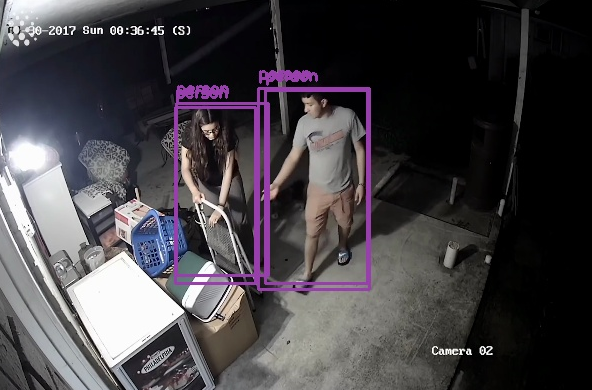
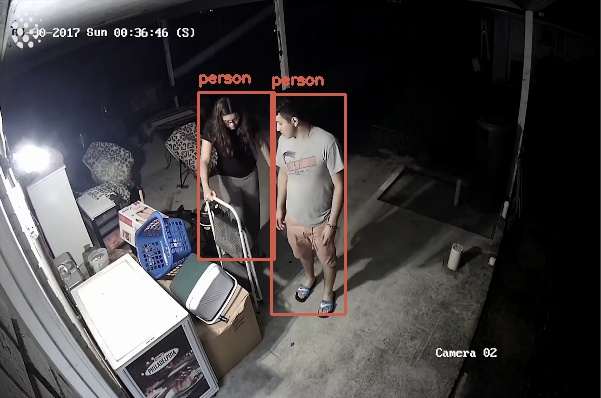
feat: lê stream de vídeo ao´invés de frames

diff --git a/deteccao_objeto_open_cv.html b/deteccao_objeto_open_cv.html
@@ -14256,10 +14256,10 @@ a.anchor-link {
     </script>
     <!-- End of mathjax configuration --></head>
 <body class="jp-Notebook" data-jp-theme-light="true" data-jp-theme-name="JupyterLab Light">
-<div class="jp-Cell jp-CodeCell jp-Notebook-cell jp-mod-noOutputs  ">
+<div class="jp-Cell jp-CodeCell jp-Notebook-cell   ">
 <div class="jp-Cell-inputWrapper">
 <div class="jp-InputArea jp-Cell-inputArea">
-<div class="jp-InputPrompt jp-InputArea-prompt">In&nbsp;[15]:</div>
+<div class="jp-InputPrompt jp-InputArea-prompt">In&nbsp;[1]:</div>
 <div class="jp-CodeMirrorEditor jp-Editor jp-InputArea-editor" data-type="inline">
      <div class="CodeMirror cm-s-jupyter">
 <div class=" highlight hl-ipython3"><pre><span></span><span class="kn">import</span> <span class="nn">cv2</span><span class="o">,</span> <span class="nn">numpy</span><span class="o">,</span> <span class="nn">os</span>
@@ -14272,17 +14272,42 @@ a.anchor-link {
 </div>
 </div>
 
+<div class="jp-Cell-outputWrapper">
+
+
+<div class="jp-OutputArea jp-Cell-outputArea">
+
+<div class="jp-OutputArea-child">
+
+    
+    <div class="jp-OutputPrompt jp-OutputArea-prompt"></div>
+
+
+<div class="jp-RenderedText jp-OutputArea-output" data-mime-type="text/plain">
+<pre>INFO:tensorflow:Enabling eager execution
+INFO:tensorflow:Enabling v2 tensorshape
+INFO:tensorflow:Enabling resource variables
+INFO:tensorflow:Enabling tensor equality
+INFO:tensorflow:Enabling control flow v2
+</pre>
+</div>
+</div>
+
+</div>
+
+</div>
+
 </div><div class="jp-Cell jp-CodeCell jp-Notebook-cell jp-mod-noOutputs  ">
 <div class="jp-Cell-inputWrapper">
 <div class="jp-InputArea jp-Cell-inputArea">
-<div class="jp-InputPrompt jp-InputArea-prompt">In&nbsp;[16]:</div>
+<div class="jp-InputPrompt jp-InputArea-prompt">In&nbsp;[2]:</div>
 <div class="jp-CodeMirrorEditor jp-Editor jp-InputArea-editor" data-type="inline">
      <div class="CodeMirror cm-s-jupyter">
-<div class=" highlight hl-ipython3"><pre><span></span><span class="c1">#pathFrames = r&#39;\assets\caxorrimFrames&#39;</span>
-<span class="c1">#pathFrames = r&#39;\assets\dogDriftFrames&#39;</span>
-<span class="n">pathFrames</span> <span class="o">=</span> <span class="sa">r</span><span class="s1">&#39;\assets\gatoPiscinaFrames&#39;</span>
-<span class="n">diretorioFrames</span> <span class="o">=</span> <span class="n">os</span><span class="o">.</span><span class="n">getcwd</span><span class="p">()</span> <span class="o">+</span> <span class="n">pathFrames</span>
-<span class="n">diretorioFramesFiltrados</span> <span class="o">=</span> <span class="n">os</span><span class="o">.</span><span class="n">getcwd</span><span class="p">()</span> <span class="o">+</span> <span class="sa">r</span><span class="s1">&#39;\assets\output&#39;</span>
+<div class=" highlight hl-ipython3"><pre><span></span><span class="c1">#pathVideo = r&#39;\assets\Caxorrim corajoso.mp4&#39;</span>
+<span class="n">pathVideo</span> <span class="o">=</span> <span class="sa">r</span><span class="s1">&#39;\assets\DogDrift.mp4&#39;</span>
+<span class="c1">#pathVideo = r&#39;\assets\Gato Piscina.mp4&#39;</span>
+<span class="n">diretorioVideo</span> <span class="o">=</span> <span class="n">os</span><span class="o">.</span><span class="n">getcwd</span><span class="p">()</span> <span class="o">+</span> <span class="n">pathVideo</span>
+<span class="n">diretorioVideoProcessado</span> <span class="o">=</span> <span class="n">os</span><span class="o">.</span><span class="n">getcwd</span><span class="p">()</span> <span class="o">+</span> <span class="sa">r</span><span class="s1">&#39;\assets\output&#39;</span>
 </pre></div>
 
      </div>
@@ -14293,7 +14318,7 @@ a.anchor-link {
 </div><div class="jp-Cell jp-CodeCell jp-Notebook-cell jp-mod-noOutputs  ">
 <div class="jp-Cell-inputWrapper">
 <div class="jp-InputArea jp-Cell-inputArea">
-<div class="jp-InputPrompt jp-InputArea-prompt">In&nbsp;[17]:</div>
+<div class="jp-InputPrompt jp-InputArea-prompt">In&nbsp;[3]:</div>
 <div class="jp-CodeMirrorEditor jp-Editor jp-InputArea-editor" data-type="inline">
      <div class="CodeMirror cm-s-jupyter">
 <div class=" highlight hl-ipython3"><pre><span></span><span class="n">foregroundModel</span> <span class="o">=</span> <span class="n">cv2</span><span class="o">.</span><span class="n">createBackgroundSubtractorMOG2</span><span class="p">()</span>
@@ -14317,7 +14342,7 @@ a.anchor-link {
 </div><div class="jp-Cell jp-CodeCell jp-Notebook-cell jp-mod-noOutputs  ">
 <div class="jp-Cell-inputWrapper">
 <div class="jp-InputArea jp-Cell-inputArea">
-<div class="jp-InputPrompt jp-InputArea-prompt">In&nbsp;[18]:</div>
+<div class="jp-InputPrompt jp-InputArea-prompt">In&nbsp;[4]:</div>
 <div class="jp-CodeMirrorEditor jp-Editor jp-InputArea-editor" data-type="inline">
      <div class="CodeMirror cm-s-jupyter">
 <div class=" highlight hl-ipython3"><pre><span></span><span class="k">def</span> <span class="nf">reduzir_ruidos</span><span class="p">(</span><span class="n">foregroundMask</span><span class="p">):</span>
@@ -14333,7 +14358,7 @@ a.anchor-link {
 </div><div class="jp-Cell jp-CodeCell jp-Notebook-cell jp-mod-noOutputs  ">
 <div class="jp-Cell-inputWrapper">
 <div class="jp-InputArea jp-Cell-inputArea">
-<div class="jp-InputPrompt jp-InputArea-prompt">In&nbsp;[19]:</div>
+<div class="jp-InputPrompt jp-InputArea-prompt">In&nbsp;[5]:</div>
 <div class="jp-CodeMirrorEditor jp-Editor jp-InputArea-editor" data-type="inline">
      <div class="CodeMirror cm-s-jupyter">
 <div class=" highlight hl-ipython3"><pre><span></span><span class="k">def</span> <span class="nf">frames_sao_consecutivos</span><span class="p">(</span><span class="n">arrayMovimentoDetectados</span><span class="p">):</span>
@@ -14348,7 +14373,7 @@ a.anchor-link {
 </div><div class="jp-Cell jp-CodeCell jp-Notebook-cell jp-mod-noOutputs  ">
 <div class="jp-Cell-inputWrapper">
 <div class="jp-InputArea jp-Cell-inputArea">
-<div class="jp-InputPrompt jp-InputArea-prompt">In&nbsp;[20]:</div>
+<div class="jp-InputPrompt jp-InputArea-prompt">In&nbsp;[6]:</div>
 <div class="jp-CodeMirrorEditor jp-Editor jp-InputArea-editor" data-type="inline">
      <div class="CodeMirror cm-s-jupyter">
 <div class=" highlight hl-ipython3"><pre><span></span><span class="k">def</span> <span class="nf">salvar_sequencia</span><span class="p">(</span><span class="n">arrayCapturaDeFrames</span><span class="p">,</span> <span class="n">idxFrameAtual</span><span class="p">,</span> <span class="n">minimaQuantidadeDeFrames</span><span class="p">,</span> <span class="n">diretorioFramesFiltrados</span><span class="p">):</span>
@@ -14374,7 +14399,7 @@ a.anchor-link {
 </div><div class="jp-Cell jp-CodeCell jp-Notebook-cell jp-mod-noOutputs  ">
 <div class="jp-Cell-inputWrapper">
 <div class="jp-InputArea jp-Cell-inputArea">
-<div class="jp-InputPrompt jp-InputArea-prompt">In&nbsp;[21]:</div>
+<div class="jp-InputPrompt jp-InputArea-prompt">In&nbsp;[7]:</div>
 <div class="jp-CodeMirrorEditor jp-Editor jp-InputArea-editor" data-type="inline">
      <div class="CodeMirror cm-s-jupyter">
 <div class=" highlight hl-ipython3"><pre><span></span><span class="k">def</span> <span class="nf">manter_objetos_tamanho_significante</span><span class="p">(</span><span class="n">foregroundMask</span><span class="p">):</span>
@@ -14400,7 +14425,7 @@ a.anchor-link {
 </div><div class="jp-Cell jp-CodeCell jp-Notebook-cell jp-mod-noOutputs  ">
 <div class="jp-Cell-inputWrapper">
 <div class="jp-InputArea jp-Cell-inputArea">
-<div class="jp-InputPrompt jp-InputArea-prompt">In&nbsp;[22]:</div>
+<div class="jp-InputPrompt jp-InputArea-prompt">In&nbsp;[8]:</div>
 <div class="jp-CodeMirrorEditor jp-Editor jp-InputArea-editor" data-type="inline">
      <div class="CodeMirror cm-s-jupyter">
 <div class=" highlight hl-ipython3"><pre><span></span><span class="k">def</span> <span class="nf">processar_imagem</span><span class="p">(</span><span class="n">arrayMovimentoDetectado</span><span class="p">,</span> <span class="n">arrayCapturaDeFrames</span><span class="p">,</span> <span class="n">idxFrameAtual</span><span class="p">,</span> <span class="n">minimaQuantidadeDeFrames</span><span class="p">,</span> <span class="n">diretorioFramesFiltrados</span><span class="p">):</span>
@@ -14433,24 +14458,38 @@ a.anchor-link {
 </div><div class="jp-Cell jp-CodeCell jp-Notebook-cell jp-mod-noOutputs  ">
 <div class="jp-Cell-inputWrapper">
 <div class="jp-InputArea jp-Cell-inputArea">
-<div class="jp-InputPrompt jp-InputArea-prompt">In&nbsp;[23]:</div>
+<div class="jp-InputPrompt jp-InputArea-prompt">In&nbsp;[11]:</div>
 <div class="jp-CodeMirrorEditor jp-Editor jp-InputArea-editor" data-type="inline">
      <div class="CodeMirror cm-s-jupyter">
-<div class=" highlight hl-ipython3"><pre><span></span><span class="k">for</span> <span class="n">nomeframe</span> <span class="ow">in</span> <span class="n">os</span><span class="o">.</span><span class="n">listdir</span><span class="p">(</span><span class="n">diretorioFrames</span><span class="p">):</span> 
+<div class=" highlight hl-ipython3"><pre><span></span><span class="n">esc</span> <span class="o">=</span> <span class="mi">27</span>
+<span class="n">cap</span> <span class="o">=</span> <span class="n">cv2</span><span class="o">.</span><span class="n">VideoCapture</span><span class="p">(</span><span class="n">diretorioVideo</span><span class="p">)</span>
+
+<span class="k">if</span> <span class="p">(</span><span class="n">cap</span><span class="o">.</span><span class="n">isOpened</span><span class="p">()</span><span class="o">==</span> <span class="kc">False</span><span class="p">):</span> 
+  <span class="nb">print</span><span class="p">(</span><span class="s2">&quot;Erro ao abrir o vídeo&quot;</span><span class="p">)</span>
+
+<span class="k">while</span><span class="p">(</span><span class="n">cap</span><span class="o">.</span><span class="n">isOpened</span><span class="p">()):</span>
+
+  <span class="n">success</span><span class="p">,</span> <span class="n">frame</span> <span class="o">=</span> <span class="n">cap</span><span class="o">.</span><span class="n">read</span><span class="p">()</span>
+  <span class="k">if</span> <span class="n">success</span> <span class="o">==</span> <span class="kc">True</span><span class="p">:</span>
     
     <span class="n">idxFrameAtual</span> <span class="o">+=</span> <span class="mi">1</span>
     
-    <span class="n">caminhoFrame</span> <span class="o">=</span> <span class="n">os</span><span class="o">.</span><span class="n">path</span><span class="o">.</span><span class="n">join</span><span class="p">(</span><span class="n">diretorioFrames</span><span class="p">,</span> <span class="n">nomeframe</span><span class="p">)</span>
-    
-    <span class="n">frameEmProcessamento</span> <span class="o">=</span> <span class="n">cv2</span><span class="o">.</span><span class="n">imread</span><span class="p">(</span><span class="n">caminhoFrame</span><span class="p">)</span>
+    <span class="n">frameEmProcessamento</span> <span class="o">=</span> <span class="n">frame</span>
     <span class="n">frameEmProcessamento</span> <span class="o">=</span> <span class="n">cv2</span><span class="o">.</span><span class="n">resize</span><span class="p">(</span><span class="n">frameEmProcessamento</span><span class="p">,</span> <span class="n">dsize</span><span class="o">=</span><span class="p">(</span><span class="mi">600</span><span class="p">,</span> <span class="mi">400</span><span class="p">))</span>
-    <span class="n">frameConcat</span> <span class="o">=</span> <span class="n">processar_imagem</span><span class="p">(</span><span class="n">arrayMovimentoDetectado</span><span class="p">,</span> <span class="n">arrayCapturaDeFrames</span><span class="p">,</span> <span class="n">idxFrameAtual</span><span class="p">,</span> <span class="n">minimaQuantidadeDeFrames</span><span class="p">,</span> <span class="n">diretorioFramesFiltrados</span><span class="p">)</span>
-    
-    
-    <span class="n">cv2</span><span class="o">.</span><span class="n">imshow</span><span class="p">(</span><span class="s1">&#39;Teste&#39;</span><span class="p">,</span> <span class="n">frameConcat</span><span class="p">)</span>
-    <span class="n">cv2</span><span class="o">.</span><span class="n">waitKey</span><span class="p">(</span><span class="mi">20</span><span class="p">)</span>
-    
-<span class="n">salvar_sequencia</span><span class="p">(</span><span class="n">arrayCapturaDeFrames</span><span class="p">,</span> <span class="n">idxFrameAtual</span><span class="p">,</span> <span class="n">minimaQuantidadeDeFrames</span><span class="p">,</span> <span class="n">diretorioFramesFiltrados</span><span class="p">)</span>
+    <span class="n">frameConcat</span> <span class="o">=</span> <span class="n">processar_imagem</span><span class="p">(</span><span class="n">arrayMovimentoDetectado</span><span class="p">,</span> <span class="n">arrayCapturaDeFrames</span><span class="p">,</span> <span class="n">idxFrameAtual</span><span class="p">,</span> <span class="n">minimaQuantidadeDeFrames</span><span class="p">,</span> <span class="n">diretorioVideoProcessado</span><span class="p">)</span>
+
+    <span class="c1">#cv2.imshow(&#39;Frame&#39;, frameConcat)</span>
+
+    <span class="c1"># Aperte esc para sair</span>
+    <span class="n">key</span> <span class="o">=</span> <span class="n">cv2</span><span class="o">.</span><span class="n">waitKey</span><span class="p">(</span><span class="mi">80</span><span class="p">)</span>
+    <span class="k">if</span> <span class="n">key</span> <span class="o">==</span> <span class="mi">27</span><span class="p">:</span>
+        <span class="k">break</span>
+
+  <span class="k">else</span><span class="p">:</span> 
+    <span class="k">break</span>
+
+<span class="n">cap</span><span class="o">.</span><span class="n">release</span><span class="p">()</span>
+<span class="c1">#salvar_sequencia(arrayCapturaDeFrames, idxFrameAtual, minimaQuantidadeDeFrames, diretorioVideoProcessado)</span>
 <span class="n">cv2</span><span class="o">.</span><span class="n">destroyAllWindows</span><span class="p">()</span>
 </pre></div>
 
@@ -14467,23 +14506,40 @@ a.anchor-link {
 </div><div class="jp-Cell jp-CodeCell jp-Notebook-cell jp-mod-noOutputs  ">
 <div class="jp-Cell-inputWrapper">
 <div class="jp-InputArea jp-Cell-inputArea">
-<div class="jp-InputPrompt jp-InputArea-prompt">In&nbsp;[27]:</div>
+<div class="jp-InputPrompt jp-InputArea-prompt">In&nbsp;[12]:</div>
 <div class="jp-CodeMirrorEditor jp-Editor jp-InputArea-editor" data-type="inline">
      <div class="CodeMirror cm-s-jupyter">
-<div class=" highlight hl-ipython3"><pre><span></span><span class="k">for</span> <span class="n">nomeframe</span> <span class="ow">in</span> <span class="n">os</span><span class="o">.</span><span class="n">listdir</span><span class="p">(</span><span class="n">diretorioFramesFiltrados</span><span class="p">):</span> 
+<div class=" highlight hl-ipython3"><pre><span></span><span class="n">esc</span> <span class="o">=</span> <span class="mi">27</span>
+<span class="k">for</span> <span class="n">nomeframe</span> <span class="ow">in</span> <span class="n">os</span><span class="o">.</span><span class="n">listdir</span><span class="p">(</span><span class="n">diretorioVideoProcessado</span><span class="p">):</span> 
     
     <span class="k">if</span><span class="p">(</span><span class="n">nomeframe</span> <span class="o">==</span> <span class="sa">r</span><span class="s1">&#39;.gitkeep&#39;</span><span class="p">):</span>
         <span class="k">continue</span>
     
-    <span class="n">caminhoFrame</span> <span class="o">=</span> <span class="n">os</span><span class="o">.</span><span class="n">path</span><span class="o">.</span><span class="n">join</span><span class="p">(</span><span class="n">diretorioFramesFiltrados</span><span class="p">,</span> <span class="n">nomeframe</span><span class="p">)</span>
+    <span class="n">caminhoFrame</span> <span class="o">=</span> <span class="n">os</span><span class="o">.</span><span class="n">path</span><span class="o">.</span><span class="n">join</span><span class="p">(</span><span class="n">diretorioVideoProcessado</span><span class="p">,</span> <span class="n">nomeframe</span><span class="p">)</span>
     
     <span class="n">frame</span> <span class="o">=</span> <span class="n">cv2</span><span class="o">.</span><span class="n">imread</span><span class="p">(</span><span class="n">caminhoFrame</span><span class="p">)</span>
     <span class="n">frame</span> <span class="o">=</span> <span class="n">cv2</span><span class="o">.</span><span class="n">resize</span><span class="p">(</span><span class="n">frame</span><span class="p">,</span> <span class="n">dsize</span><span class="o">=</span><span class="p">(</span><span class="mi">600</span><span class="p">,</span> <span class="mi">400</span><span class="p">))</span>    
     
     <span class="n">cv2</span><span class="o">.</span><span class="n">imshow</span><span class="p">(</span><span class="s1">&#39;Resultado&#39;</span><span class="p">,</span> <span class="n">frame</span><span class="p">)</span>
-    <span class="n">cv2</span><span class="o">.</span><span class="n">waitKey</span><span class="p">(</span><span class="mi">150</span><span class="p">)</span>
+    <span class="n">key</span> <span class="o">=</span> <span class="n">cv2</span><span class="o">.</span><span class="n">waitKey</span><span class="p">(</span><span class="mi">80</span><span class="p">)</span>
+    <span class="k">if</span> <span class="n">key</span> <span class="o">==</span> <span class="mi">27</span><span class="p">:</span>
+        <span class="k">break</span>
     
 <span class="n">cv2</span><span class="o">.</span><span class="n">destroyAllWindows</span><span class="p">()</span>
+</pre></div>
+
+     </div>
+</div>
+</div>
+</div>
+
+</div><div class="jp-Cell jp-CodeCell jp-Notebook-cell jp-mod-noOutputs  ">
+<div class="jp-Cell-inputWrapper">
+<div class="jp-InputArea jp-Cell-inputArea">
+<div class="jp-InputPrompt jp-InputArea-prompt">In&nbsp;[&nbsp;]:</div>
+<div class="jp-CodeMirrorEditor jp-Editor jp-InputArea-editor" data-type="inline">
+     <div class="CodeMirror cm-s-jupyter">
+<div class=" highlight hl-ipython3"><pre><span></span> 
 </pre></div>
 
      </div>

diff --git a/deteccao_objeto_open_cv.py b/deteccao_objeto_open_cv.py
@@ -1,7 +1,7 @@
 #!/usr/bin/env python
 # coding: utf-8
 
-# In[15]:
+# In[1]:
 
 
 import cv2, numpy, os
@@ -9,17 +9,17 @@ import cvlib as cv
 from cvlib.object_detection import draw_bbox
 
 
-# In[16]:
+# In[2]:
 
 
-#pathFrames = r'\assets\caxorrimFrames'
-#pathFrames = r'\assets\dogDriftFrames'
-pathFrames = r'\assets\gatoPiscinaFrames'
-diretorioFrames = os.getcwd() + pathFrames
-diretorioFramesFiltrados = os.getcwd() + r'\assets\output'
+#pathVideo = r'\assets\Caxorrim corajoso.mp4'
+pathVideo = r'\assets\DogDrift.mp4'
+#pathVideo = r'\assets\Gato Piscina.mp4'
+diretorioVideo = os.getcwd() + pathVideo
+diretorioVideoProcessado = os.getcwd() + r'\assets\output'
 
 
-# In[17]:
+# In[3]:
 
 
 foregroundModel = cv2.createBackgroundSubtractorMOG2()
@@ -35,7 +35,7 @@ arrayCapturaDeFrames = []
 idxFrameAtual = 0
 
 
-# In[18]:
+# In[4]:
 
 
 def reduzir_ruidos(foregroundMask):
@@ -43,14 +43,14 @@ def reduzir_ruidos(foregroundMask):
     return cv2.morphologyEx(numpy.float32(foregroundMask), cv2.MORPH_OPEN, morf)
 
 
-# In[19]:
+# In[5]:
 
 
 def frames_sao_consecutivos(arrayMovimentoDetectados):
     return arrayMovimentoDetectado[-1] > arrayMovimentoDetectado[-2] + 1
 
 
-# In[20]:
+# In[6]:
 
 
 def salvar_sequencia(arrayCapturaDeFrames, idxFrameAtual, minimaQuantidadeDeFrames, diretorioFramesFiltrados):
@@ -68,7 +68,7 @@ def salvar_sequencia(arrayCapturaDeFrames, idxFrameAtual, minimaQuantidadeDeFram
             frameSequenciaAtual += 1
 
 
-# In[21]:
+# In[7]:
 
 
 def manter_objetos_tamanho_significante(foregroundMask):
@@ -86,7 +86,7 @@ def manter_objetos_tamanho_significante(foregroundMask):
     return numpy.uint8(255*imagemForeground)
 
 
-# In[22]:
+# In[8]:
 
 
 def processar_imagem(arrayMovimentoDetectado, arrayCapturaDeFrames, idxFrameAtual, minimaQuantidadeDeFrames, diretorioFramesFiltrados):
@@ -111,46 +111,69 @@ def processar_imagem(arrayMovimentoDetectado, arrayCapturaDeFrames, idxFrameAtua
     return frameConcat
 
 
-# In[23]:
+# In[11]:
 
 
-for nomeframe in os.listdir(diretorioFrames): 
+esc = 27
+cap = cv2.VideoCapture(diretorioVideo)
+
+if (cap.isOpened()== False): 
+  print("Erro ao abrir o vídeo")
+
+while(cap.isOpened()):
+
+  success, frame = cap.read()
+  if success == True:
     
     idxFrameAtual += 1
     
-    caminhoFrame = os.path.join(diretorioFrames, nomeframe)
-    
-    frameEmProcessamento = cv2.imread(caminhoFrame)
+    frameEmProcessamento = frame
     frameEmProcessamento = cv2.resize(frameEmProcessamento, dsize=(600, 400))
-    frameConcat = processar_imagem(arrayMovimentoDetectado, arrayCapturaDeFrames, idxFrameAtual, minimaQuantidadeDeFrames, diretorioFramesFiltrados)
-    
-    
-    cv2.imshow('Teste', frameConcat)
-    cv2.waitKey(20)
-    
-salvar_sequencia(arrayCapturaDeFrames, idxFrameAtual, minimaQuantidadeDeFrames, diretorioFramesFiltrados)
+    frameConcat = processar_imagem(arrayMovimentoDetectado, arrayCapturaDeFrames, idxFrameAtual, minimaQuantidadeDeFrames, diretorioVideoProcessado)
+
+    #cv2.imshow('Frame', frameConcat)
+
+    # Aperte esc para sair
+    key = cv2.waitKey(80)
+    if key == 27:
+        break
+
+  else: 
+    break
+
+cap.release()
+#salvar_sequencia(arrayCapturaDeFrames, idxFrameAtual, minimaQuantidadeDeFrames, diretorioVideoProcessado)
 cv2.destroyAllWindows()
 
 
 # ## Ler resultado do processamento 
 
-# In[27]:
+# In[12]:
 
 
-for nomeframe in os.listdir(diretorioFramesFiltrados): 
+esc = 27
+for nomeframe in os.listdir(diretorioVideoProcessado): 
     
     if(nomeframe == r'.gitkeep'):
         continue
     
-    caminhoFrame = os.path.join(diretorioFramesFiltrados, nomeframe)
+    caminhoFrame = os.path.join(diretorioVideoProcessado, nomeframe)
     
     frame = cv2.imread(caminhoFrame)
     frame = cv2.resize(frame, dsize=(600, 400))    
     
     cv2.imshow('Resultado', frame)
-    cv2.waitKey(150)
+    key = cv2.waitKey(80)
+    if key == 27:
+        break
     
 cv2.destroyAllWindows()
+
+
+# In[ ]:
+
+
+
 
 
 # In[ ]:
